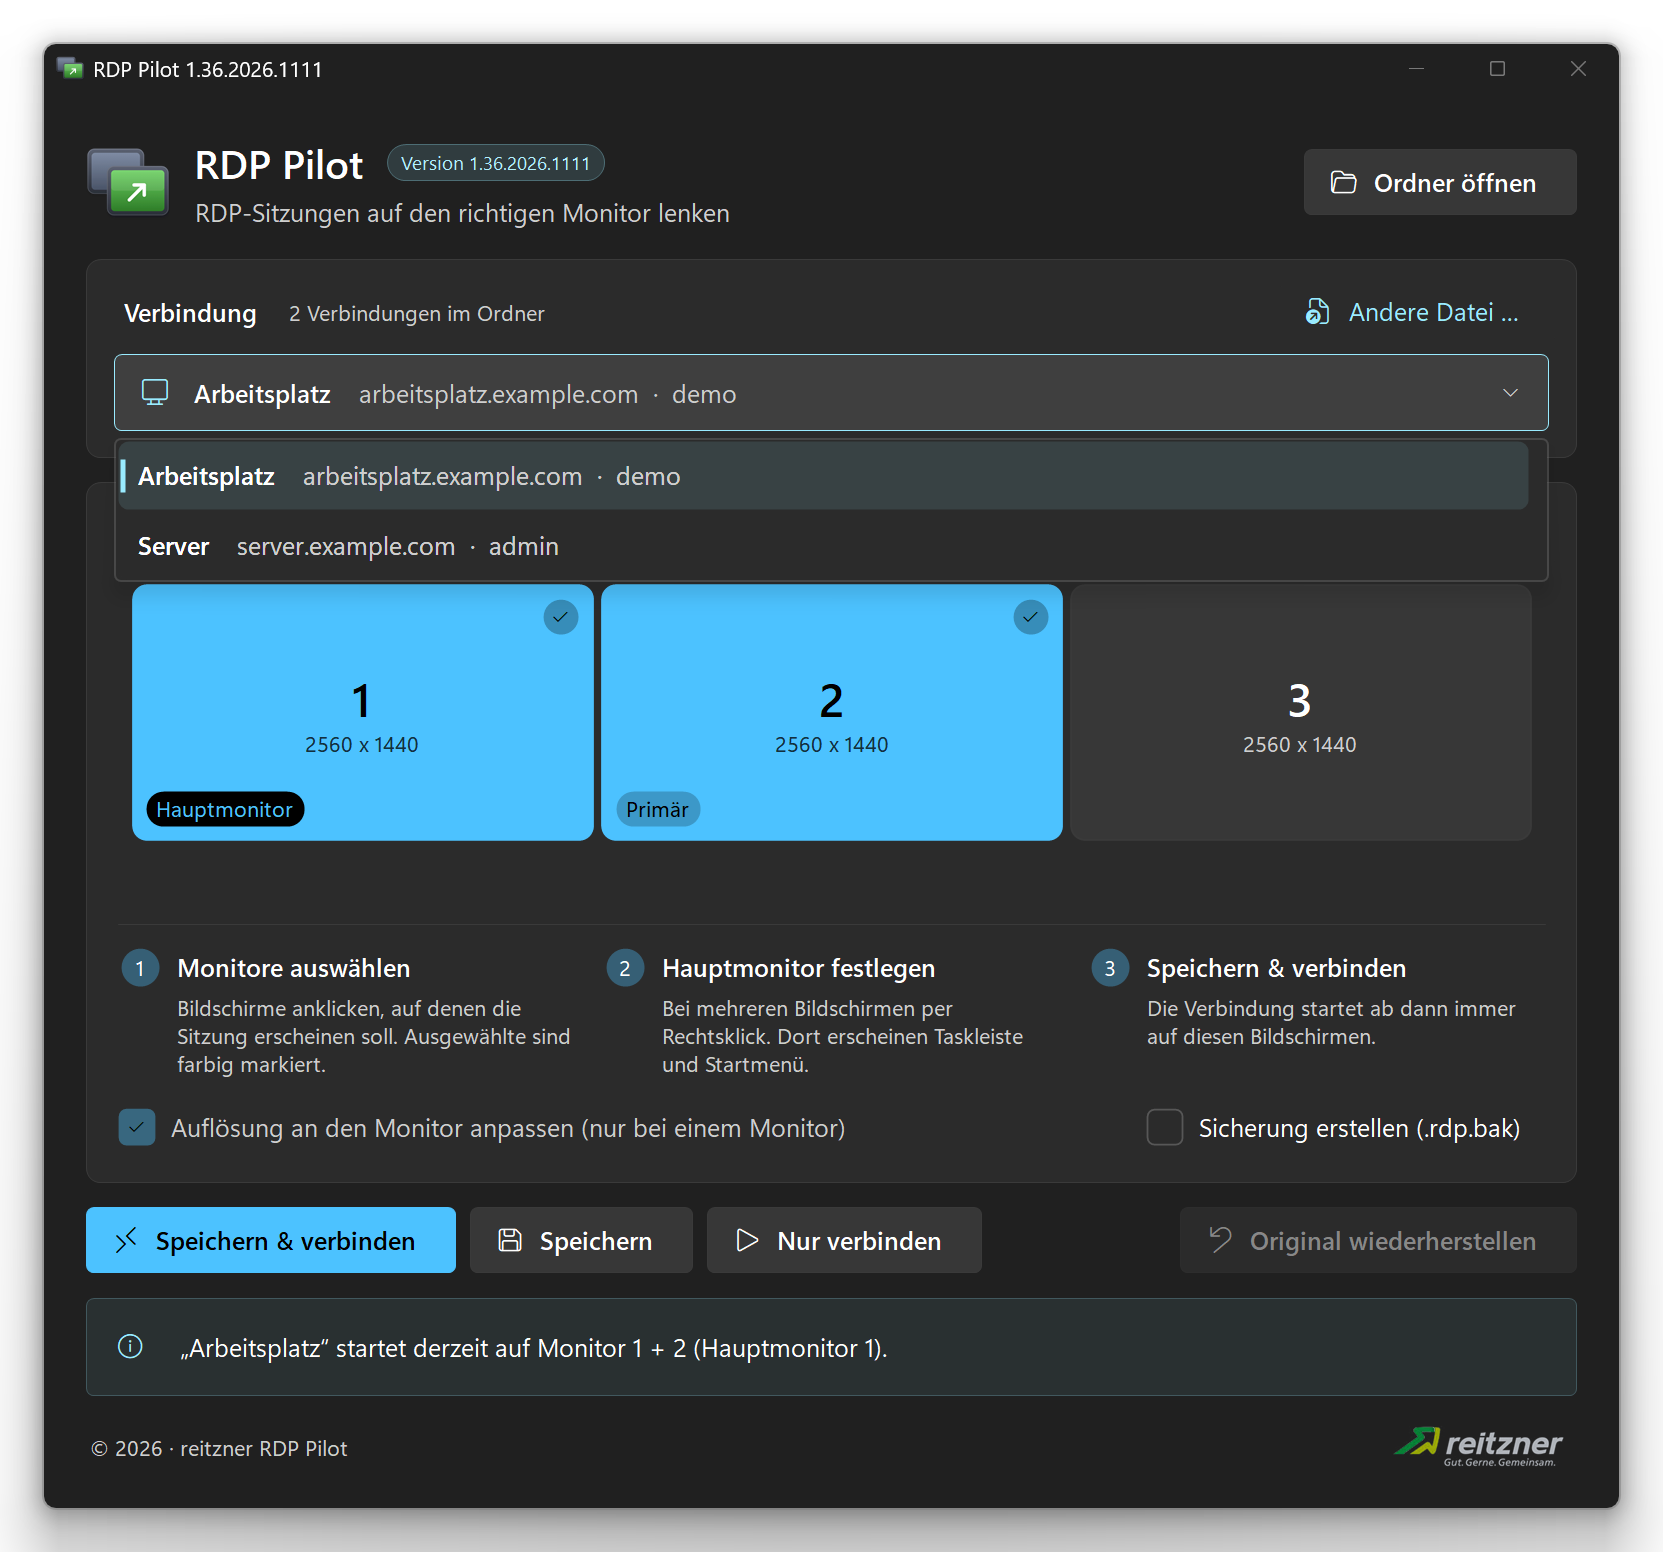
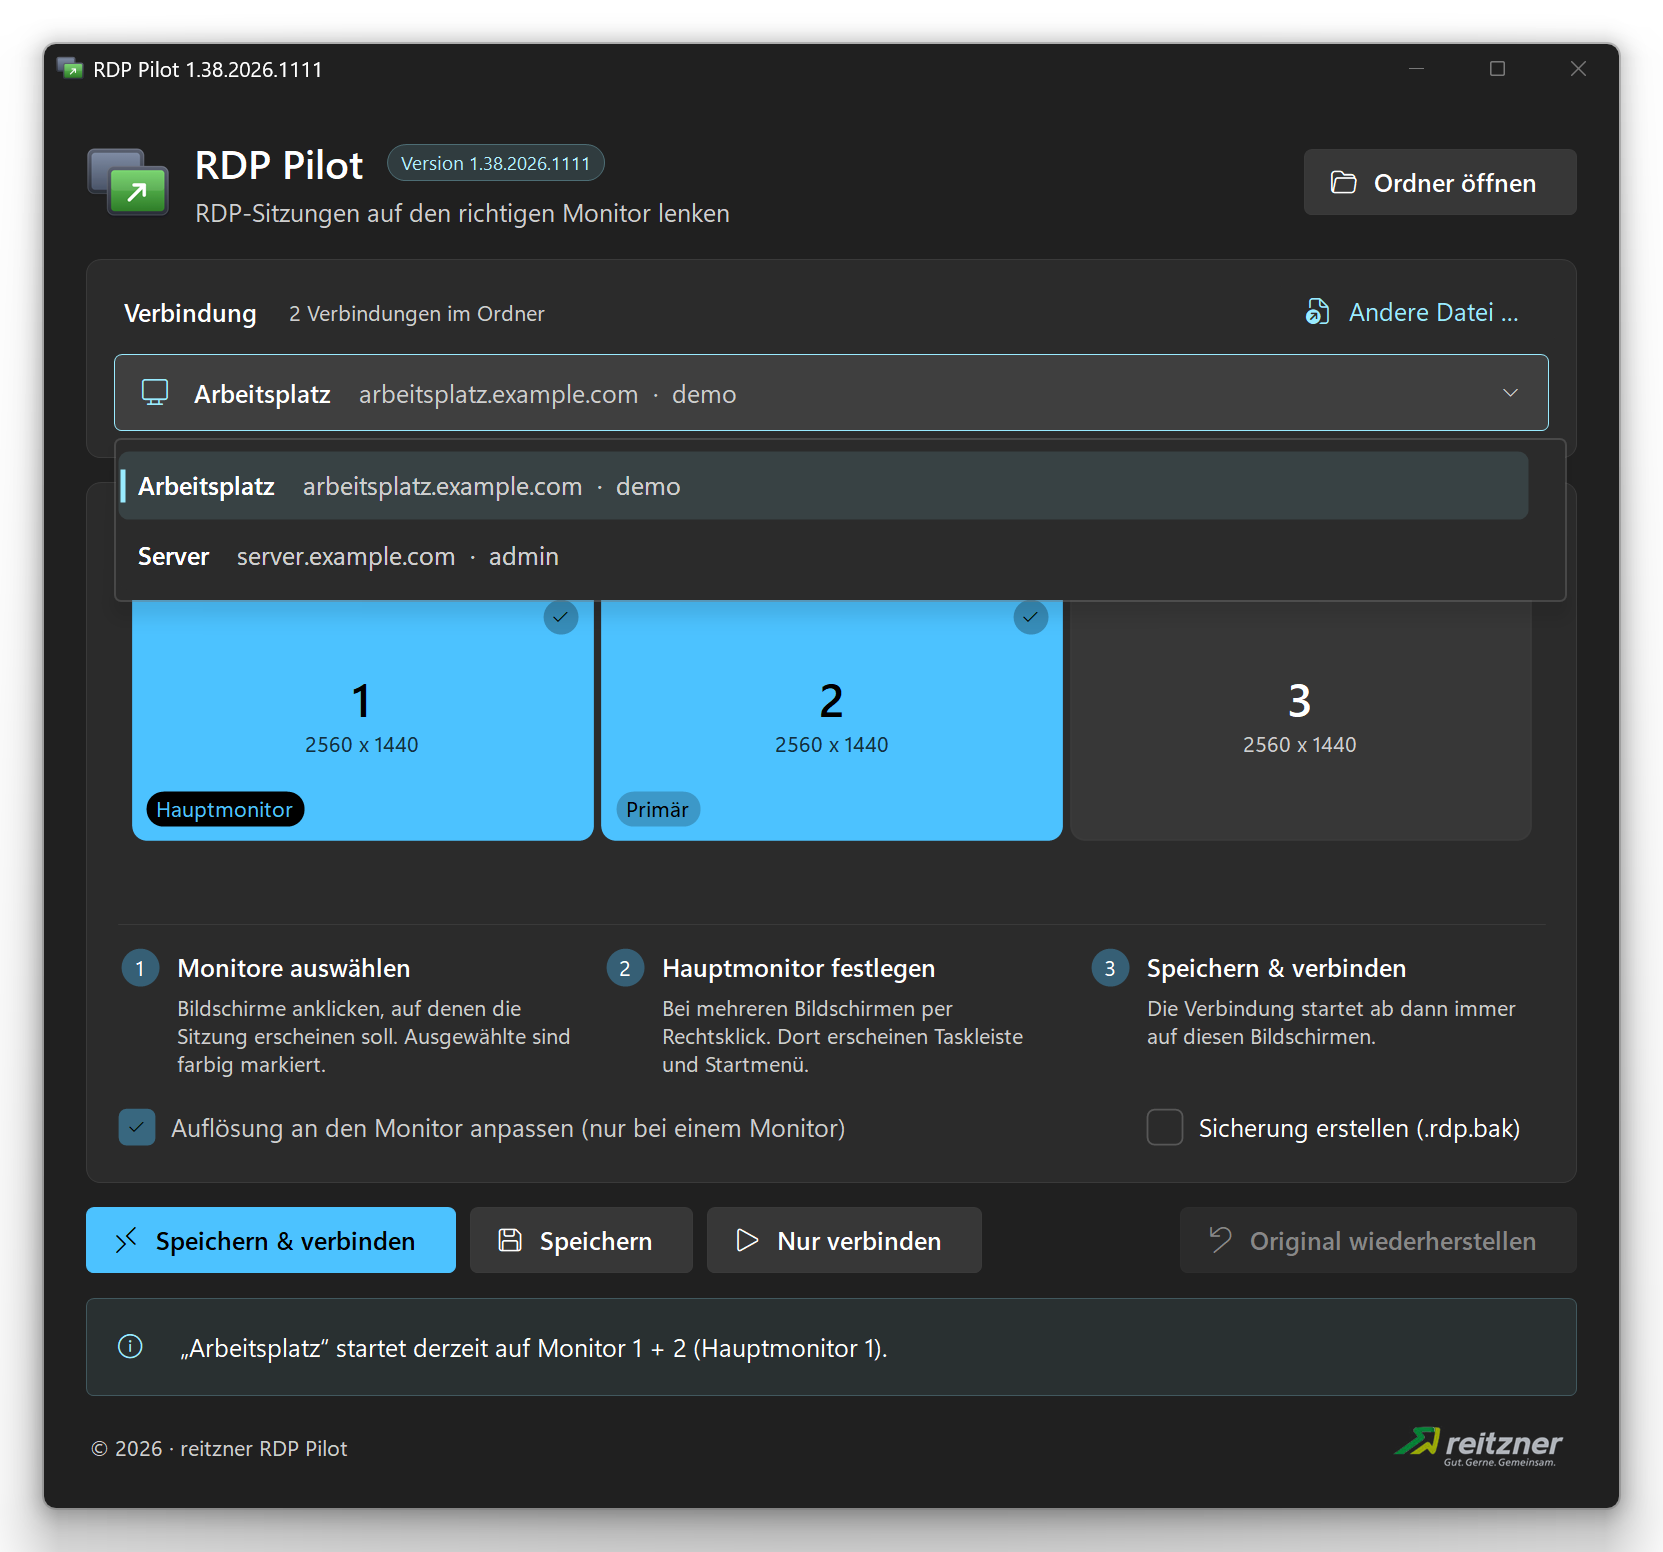
1.38: Verbindungsliste mit gleichem Abstand oben und unten, neue Screenshots

Changed region(s): [[0.0613, 0.2784, 0.92, 0.4021]]

diff --git a/Quellcode/Ui.cs b/Quellcode/Ui.cs
@@ -538,12 +538,17 @@ public class ModernSelect:Control {
    menu.DropShadowEnabled=false;
    menu.HandleCreated+=(s,a)=>Native.RoundCorners(menu.Handle);
   }
+  // Windows wendet hier weder Padding.Top noch Padding.Bottom an (im Screenshot nachgemessen):
+  // je eine unsichtbare Leerzeile oben und unten, damit der Abstand zum Rahmen gleich ist
+  menu.Items.Add(new MenuSpacer(Width-Ui.Px(10)));
   for(int i=0;i<Items.Count;i++) {
    var item=new SelectMenuItem(Items[i],i==selected,Width-Ui.Px(10));
    int index=i;
    item.Click+=(s,a)=>SelectedIndex=index;
    menu.Items.Add(item);
   }
+  // Unsichtbare Leerzeile unter dem letzten Eintrag (Globale Richtlinien: MenuSpacer)
+  menu.Items.Add(new MenuSpacer(Width-Ui.Px(10)));
   // Aufklappmenü genauso breit wie das Auswahlfeld
   menu.MinimumSize=new Size(Width,0);
   menu.Closed+=(s,a)=>{open=false;Invalidate();BeginInvoke(new Action(menu.Dispose));};
@@ -604,6 +609,12 @@ public class ModernSelect:Control {
   public override Size GetPreferredSize(Size constrainingSize){return new Size(itemWidth,Ui.Px(40));}
  }
 
+ // Unsichtbare Leerzeile (6 × Skalierung) über dem ersten und unter dem letzten Menüeintrag; nicht anwählbar
+ class MenuSpacer:ToolStripLabel {
+  readonly int itemWidth;
+  public MenuSpacer(int width):base(""){itemWidth=width;Enabled=false;AutoSize=false;Size=new Size(width,Ui.Px(6));Margin=Padding.Empty;Padding=Padding.Empty;}
+  public override Size GetPreferredSize(Size constrainingSize){return new Size(itemWidth,Ui.Px(6));}
+ }
  class SelectRenderer:ToolStripRenderer {
   protected override void OnRenderToolStripBackground(ToolStripRenderEventArgs e) {
    e.Graphics.Clear(Ui.Surface);
